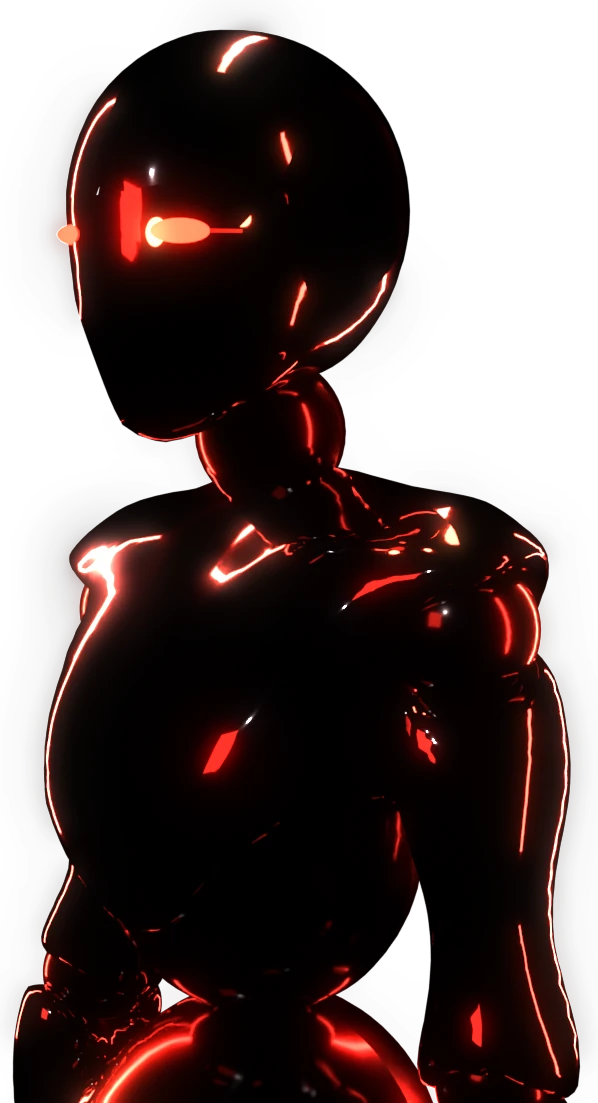
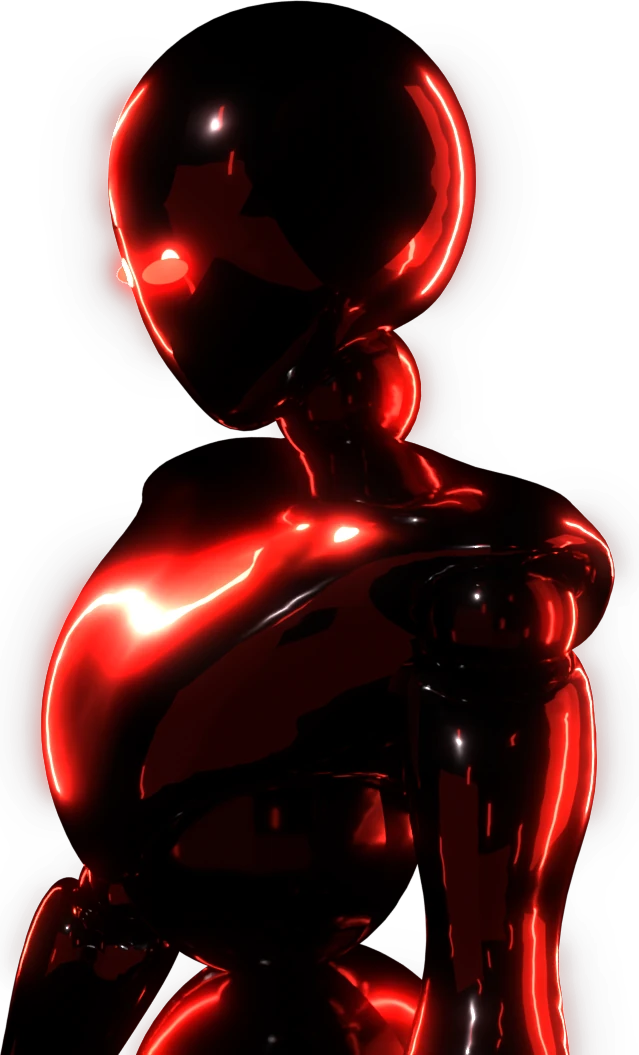
Robot closer to the reference: bowed head, broader chest, red glow on the right side, glossy black glass look

diff --git a/index.html b/index.html
@@ -65,7 +65,7 @@
           <span class="pin" style="left:47.5%;top:30%"><svg viewBox="0 0 24 32"><path d="M12 1C6 1 1.5 5.6 1.5 11.4 1.5 19 12 31 12 31s10.5-12 10.5-19.6C22.5 5.6 18 1 12 1Z" fill="#ff1f2d"/><circle cx="12" cy="11.5" r="4.2" fill="#2a0205"/></svg></span>
         </div>
         <div class="robot" id="robot">
-          <img src="/img/robot.webp" alt="Glossy black AI android with a glowing red visor, the FraudLens guardian" width="598" height="1103" fetchpriority="high" />
+          <img src="/img/robot.webp" alt="Glossy black AI android with a glowing red visor, the FraudLens guardian" width="639" height="1055" fetchpriority="high" />
         </div>
 
         <div class="float f1" aria-hidden="true">

diff --git a/ml/blender_robot.py b/ml/blender_robot.py
@@ -9,14 +9,14 @@ import os
 import sys
 
 import bpy
-from mathutils import Vector
+from mathutils import Euler, Vector
 
 HERE = os.path.dirname(os.path.abspath(__file__))
 OUT = os.path.join(HERE, "..", "public", "img")
 SRC = next((a for a in sys.argv[1:] if a.endswith(".glb")), os.path.join(HERE, "Xbot.glb"))
 SAMPLES = int(os.environ.get("SAMPLES", "160"))
 RES = int(os.environ.get("RES", "100"))
-YAW = float(os.environ.get("YAW", "-34"))
+YAW = float(os.environ.get("YAW", "-52"))
 
 bpy.ops.wm.read_factory_settings(use_empty=True)
 sc = bpy.context.scene
@@ -52,10 +52,10 @@ def glow(name, strength):
     return m
 
 
-SHELL = principled("shell", (0.01, 0.01, 0.011, 1), 1.0, 0.06, coat=1.0)
+SHELL = principled("shell", (0.012, 0.011, 0.012, 1), 1.0, 0.14, coat=1.0)   # black glass-like gloss
 SEAM = principled("seam", (0.02, 0.018, 0.018, 1), 1.0, 0.12)
 LINE = glow("line", 3.0)
-EYE = glow("eye", 14.0)
+EYE = glow("eye", 5.0)
 VISOR = glow("visor", 1.2)
 
 bpy.ops.import_scene.gltf(filepath=SRC)
@@ -63,6 +63,14 @@ for o in list(bpy.data.objects):
     if o.type == "MESH" and o.name.startswith("Icosphere"):
         bpy.data.objects.remove(o)
 arm = next(o for o in bpy.data.objects if o.type == "ARMATURE")
+HEAD_TILT = float(os.environ.get("TILT", "16"))
+HEAD_TURN = float(os.environ.get("TURN", "-14"))
+arm.animation_data.action = bpy.data.actions.get("idle"); sc.frame_set(1)
+idle = {pb.name: (pb.rotation_quaternion.copy(), pb.location.copy()) for pb in arm.pose.bones}
+arm.animation_data.action = None
+for pb in arm.pose.bones:                         # rest pose while measuring and placing the eyes
+    pb.rotation_mode = "QUATERNION"; pb.rotation_quaternion = (1, 0, 0, 0); pb.location = (0, 0, 0)
+bpy.context.view_layer.update()
 for o in bpy.data.objects:
     if o.type != "MESH":
         continue
@@ -85,6 +93,7 @@ fwd = ((eyes[0] + eyes[1]) / 2 - head); fwd.z = 0; fwd.normalize()
 surf = next(o for o in bpy.data.objects if o.type == "MESH" and "Surface" in o.name)
 ez = (eyes[0].z + eyes[1].z) / 2
 pts = [surf.matrix_world @ v.co for v in surf.data.vertices]
+rest_pts = pts
 band = [p for p in pts if abs(p.z - ez) < 0.012 and p.z > 1.3]
 cx = sum(p.x for p in band) / len(band); cy = sum(p.y for p in band) / len(band)
 rx = max(abs(p.x - cx) for p in band); ry = max(abs(p.y - cy) for p in band)
@@ -146,19 +155,41 @@ def crest(lift, bevel, mat, bins=60):
     return curve_from(out, bevel, mat, False)
 
 
-# like the reference: only two glowing eyes on a dark visor, no lines over the helmet
-front = math.atan2(fwd.y, fwd.x)
-horizontal_band(ez, 0.0012, 0.0011, VISOR, centre=front, span=math.radians(38))   # faint visor slit
-for e in eyes:                                    # bright eye cores
+# like the reference: two glowing eyes on the dark face, no lines over the helmet
+pose_store = idle
+eye_objs = []
+for e in eyes:
     d = Vector((e.x - cx, e.y - cy, 0)); d.normalize()
-    sl = [p for p in pts if abs(p.z - ez) < 0.006]
-    near = [math.hypot(p.x - cx, p.y - cy) for p in sl if (Vector((p.x - cx, p.y - cy, 0)).normalized()).dot(d) > 0.96]
+    sl = [p for p in rest_pts if abs(p.z - ez) < 0.006]
+    near = [math.hypot(p.x - cx, p.y - cy) for p in sl if (Vector((p.x - cx, p.y - cy, 0)).normalized()).dot(d) > 0.97]
     r = max(near) if near else max(rx, ry)
-    pos = Vector((cx + d.x * (r + 0.002), cy + d.y * (r + 0.002), ez))
+    pos = Vector((cx + d.x * (r - 0.002), cy + d.y * (r - 0.002), ez))
     bpy.ops.mesh.primitive_uv_sphere_add(segments=24, ring_count=12, location=pos)
-    s = bpy.context.object; s.scale = (0.018, 0.018, 0.0075); s.data.materials.append(EYE)
-    bpy.ops.object.light_add(type="POINT", location=pos + Vector((d.x, d.y, 0)) * 0.03)   # eye glow spilling on the face
-    gl = bpy.context.object; gl.data.energy = 2.5; gl.data.color = (1, 0.04, 0.02); gl.data.shadow_soft_size = 0.01
+    s = bpy.context.object; s.scale = (0.018, 0.018, 0.008); s.data.materials.append(EYE); eye_objs.append(s)
+    bpy.ops.object.light_add(type="POINT", location=pos + Vector((d.x, d.y, 0)) * 0.025)   # eye glow spilling on the face
+    gl = bpy.context.object; gl.data.energy = 3.5; gl.data.color = (1, 0.04, 0.02); gl.data.shadow_soft_size = 0.01; eye_objs.append(gl)
+bpy.context.view_layer.update()
+for o in eye_objs:                                # eyes follow the head when it tilts
+    mw = o.matrix_world.copy()
+    o.parent = arm; o.parent_type = "BONE"; o.parent_bone = "mixamorig:Head"
+    bpy.context.view_layer.update()
+    o.matrix_world = mw
+
+# pose like the reference: chest out, broader torso, head bowed and turned a little
+def rot(name, x=0.0, y=0.0, z=0.0):
+    pb = arm.pose.bones[name]; q0, _ = pose_store[name]
+    pb.rotation_mode = "QUATERNION"
+    pb.rotation_quaternion = q0 @ Euler((math.radians(x), math.radians(y), math.radians(z))).to_quaternion()
+for name, (q, loc) in pose_store.items():
+    arm.pose.bones[name].rotation_quaternion = q; arm.pose.bones[name].location = loc
+rot("mixamorig:Spine1", x=-4)
+rot("mixamorig:Spine2", x=-7)
+rot("mixamorig:Neck", x=10)
+rot("mixamorig:Head", x=HEAD_TILT, y=HEAD_TURN)
+for n in ("mixamorig:Neck", "mixamorig:LeftArm", "mixamorig:RightArm"):
+    arm.data.bones[n].inherit_scale = "NONE"
+arm.pose.bones["mixamorig:Spine2"].scale = (1.12, 1.0, 1.1)   # broader, deeper chest
+arm.pose.bones["mixamorig:Spine1"].scale = (1.06, 1.0, 1.05)
 
 # turn everything so the robot looks to the left of the frame
 bpy.ops.object.empty_add(location=(0, 0, 0))
@@ -182,13 +213,32 @@ def area(loc, target, energy, color, size, size_y=None):
 
 C = Vector((0, 0, 1.45))
 RED = (1, 0.03, 0.02)
-# black glossy shell shaped only by long red strip reflections along its edges (like the reference)
-area((0.9, 0.9, 1.6), C, 160, RED, 0.06, 1.6)       # strip, back right
-area((-1.0, 0.7, 1.6), C, 130, RED, 0.06, 1.6)      # strip, back left
-area((1.1, -0.4, 1.6), C, 70, RED, 0.05, 1.4)       # strip on the right cheek and shoulder
-area((0.0, 0.4, 2.6), C, 60, RED, 0.06, 0.9)        # strip above: top edge of the helmet
-area((-0.9, -1.1, 1.9), C, 18, (1, 0.03, 0.02), 0.5) # soft red fill so the black reads as glossy
-area((-0.6, -1.3, 2.3), C, 10, (1, 0.94, 0.94), 0.05) # tiny white key for gloss
+
+
+def panel(loc, size, strength, color=RED):
+    """Emissive card, invisible to the camera, that shows up only as a reflection in the black gloss."""
+    bpy.ops.mesh.primitive_plane_add(size=1, location=loc)
+    p = bpy.context.object; p.scale = (size[0], size[1], 1)
+    p.rotation_euler = (C - Vector(loc)).to_track_quat("Z", "Y").to_euler()
+    m = bpy.data.materials.new("panel"); m.use_nodes = True; nt = m.node_tree; nt.nodes.clear()
+    em = nt.nodes.new("ShaderNodeEmission"); em.inputs[0].default_value = (*color, 1); em.inputs[1].default_value = strength
+    out = nt.nodes.new("ShaderNodeOutputMaterial"); nt.links.new(em.outputs[0], out.inputs[0])
+    p.data.materials.append(m); p.visible_camera = False; p.visible_shadow = False
+    return p
+
+
+# big soft red glow on the right side of the head and body (like the reference)
+panel((1.15, -0.15, 1.65), (0.8, 1.6), 2.4)
+area((0.9, 0.9, 1.6), C, 170, RED, 0.06, 1.6)       # strip rim, back right
+area((1.15, -0.2, 1.55), C, 60, RED, 0.05, 1.4)     # strip on the right cheek and shoulder
+area((-1.0, 0.7, 1.6), C, 45, RED, 0.04, 1.4)       # faint rim, back left (just the silhouette)
+# deep red depth so the black reads like glass with light inside
+panel((-0.6, -1.2, 1.2), (1.4, 1.2), 0.35)
+panel((0.2, -1.4, 0.8), (1.6, 0.6), 0.25)
+# small red glints across the body
+for loc in [(0.6, -1.1, 2.1), (-0.4, -1.0, 2.2), (0.9, -0.9, 1.1), (-0.8, -0.6, 1.0), (0.3, -1.2, 1.35), (-0.2, -1.2, 1.75)]:
+    panel(loc, (0.05, 0.22), 9)
+area((-0.6, -1.3, 2.3), C, 8, (1, 0.94, 0.94), 0.04) # tiny white key for gloss
 
 bpy.ops.object.camera_add(location=(0.18, -1.3, 1.6))
 cam = bpy.context.object
